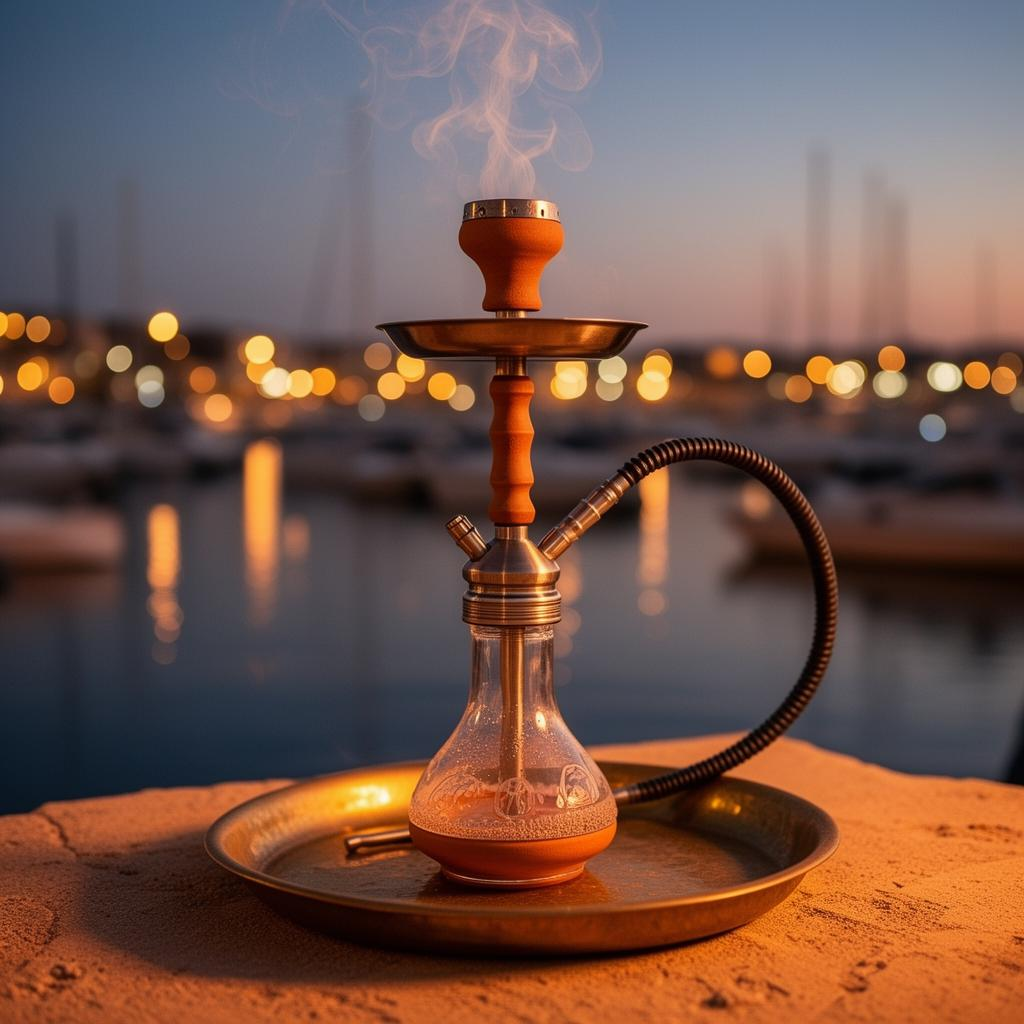
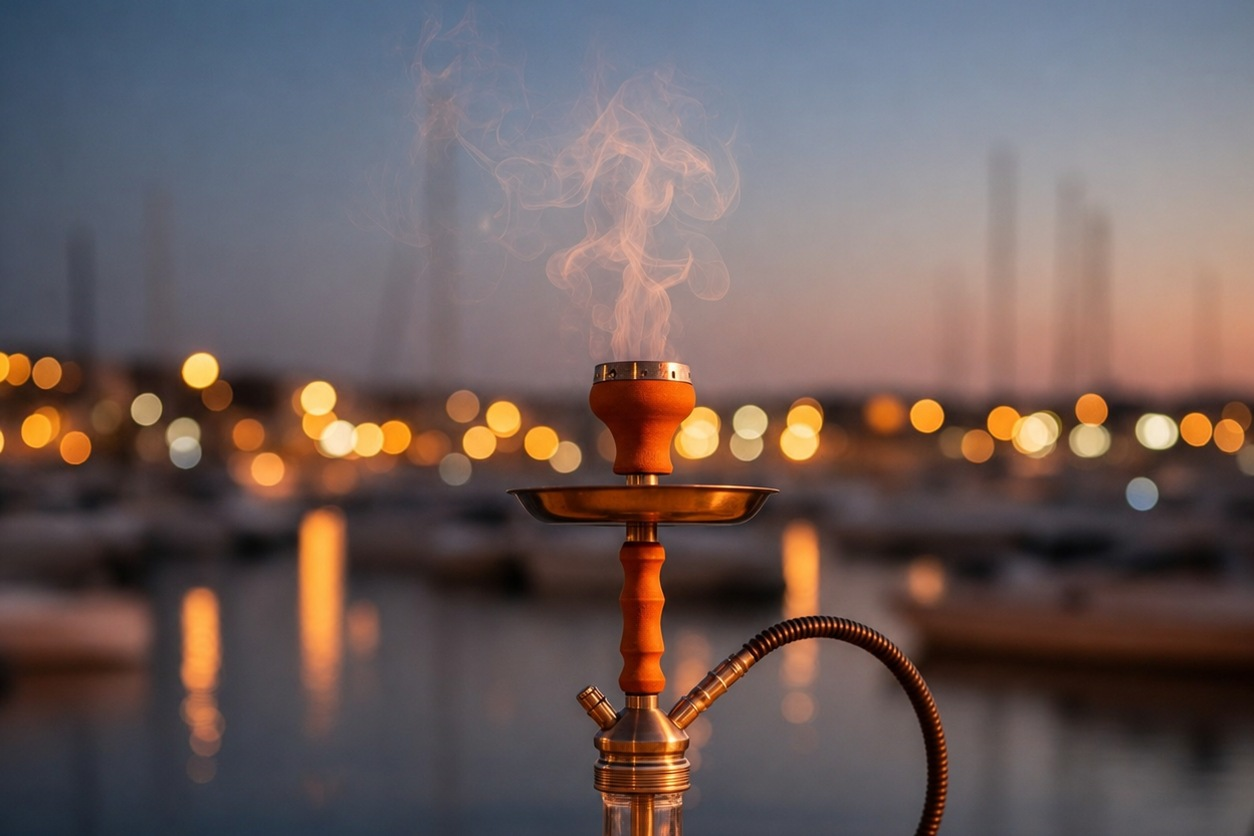
Replace shisha photo with better landscape composition, restore 3:2 card

diff --git a/index.html b/index.html
@@ -264,7 +264,7 @@ a{text-decoration:none;color:inherit}
 </div>
 
 <div class="feat-block alt">
-  <div class="photo-card" style="background-image:url('images/photo-shisha.jpg');background-position:center center;aspect-ratio:1/1"></div>
+  <div class="photo-card" style="background-image:url('images/photo-shisha.jpg');background-position:center center"></div>
   <span class="feat-num" data-tr="02 / ATMOSFER" data-en="02 / ATMOSPHERE" data-ar="02 / الأجواء">02 / ATMOSFER</span>
   <h3 class="sec-h lg" data-tr="Premium Nargile &amp; Lounge" data-en="Premium Shisha &amp; Lounge" data-ar="شيشة بريميوم ولاونج">Premium Nargile &amp; Lounge</h3>
   <p class="sec-body" data-tr="İmza karışımları, uzman nargile ekibi ve marina esintisiyle uzun, sakin bir akşam. KuKa'nın imza deneyimi." data-en="Signature blends, an expert shisha team and the marina breeze for a long, slow evening. KuKa's signature experience." data-ar="مزيجات مميزة وفريق شيشة خبير ونسيم المارينا لأمسية طويلة وهادئة.">İmza karışımları, uzman nargile ekibi ve marina esintisiyle uzun, sakin bir akşam. KuKa'nın imza deneyimi.</p>
